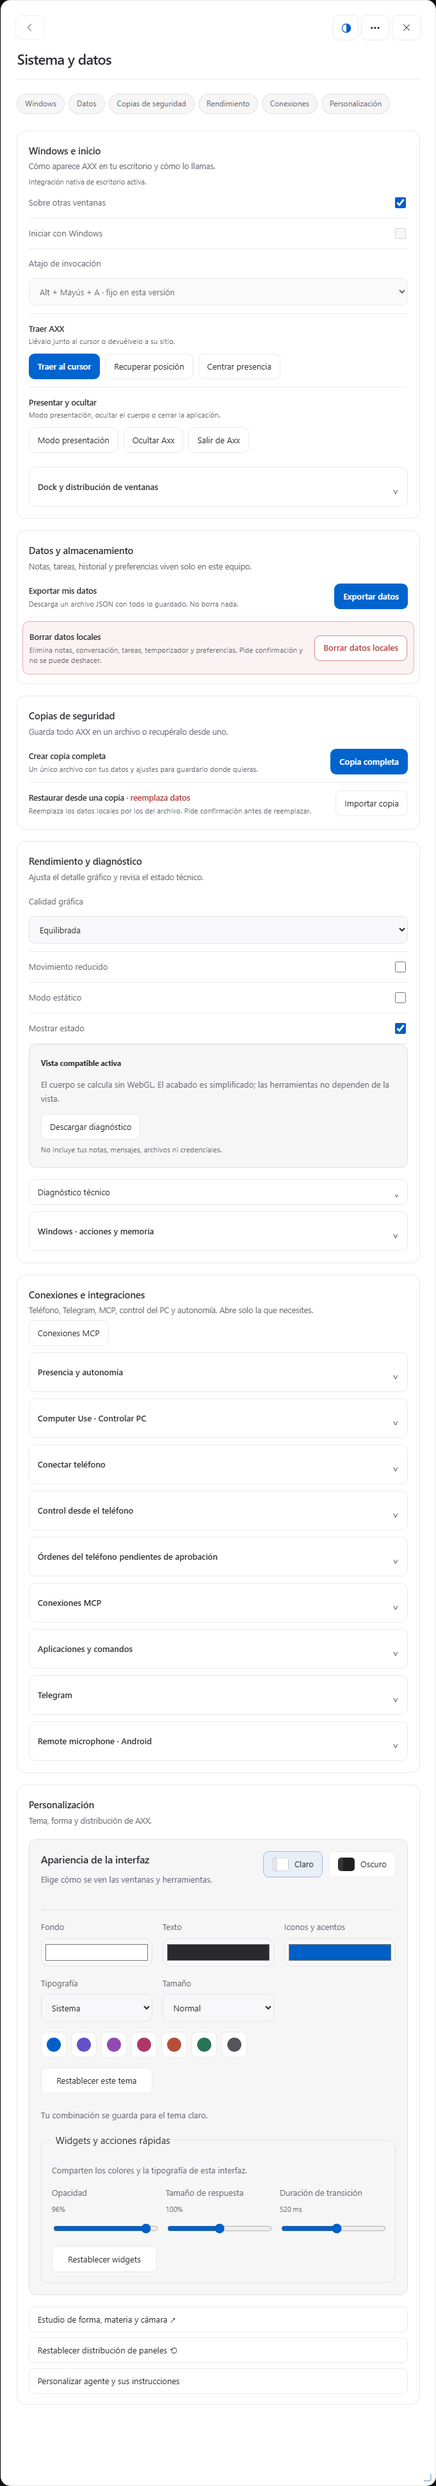
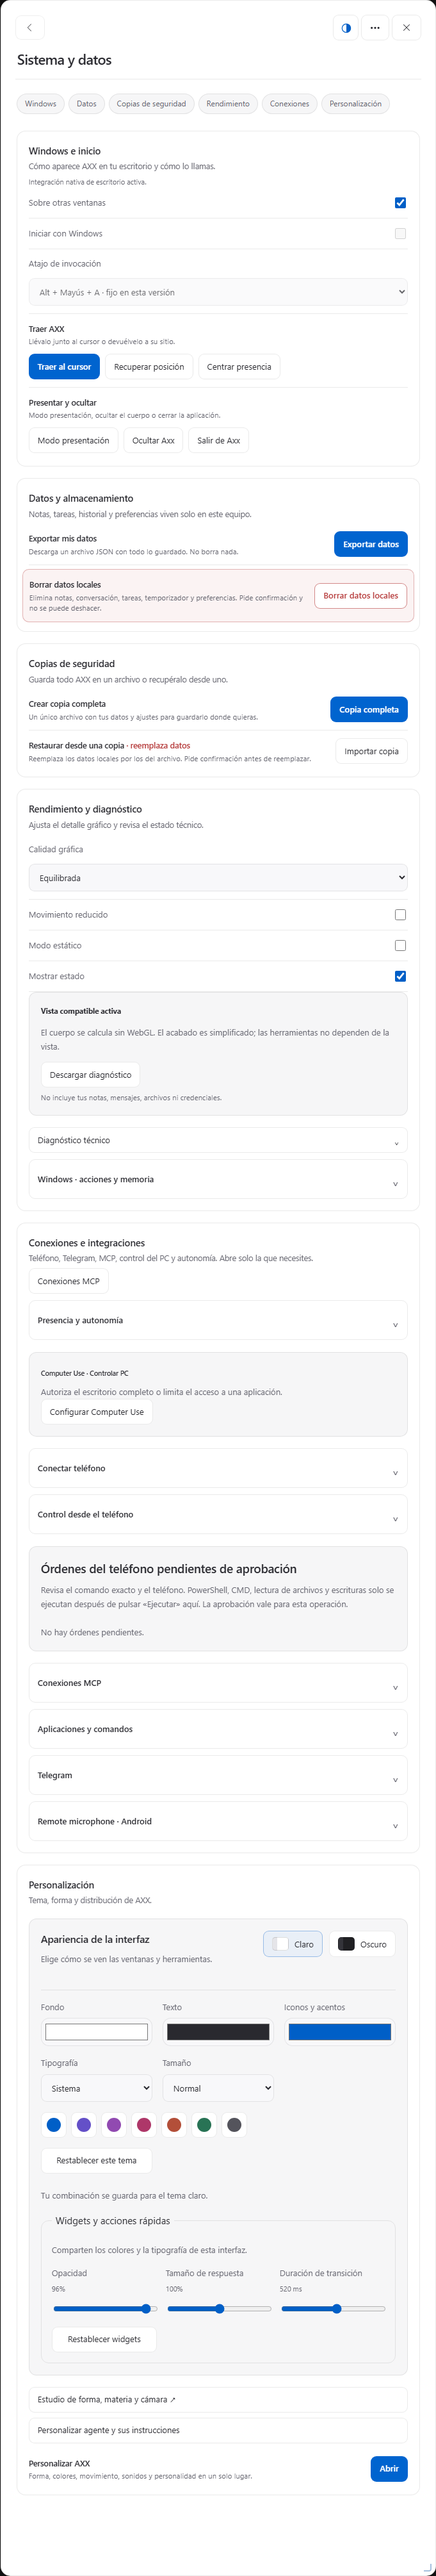
feat(ui): single Personalizar AXX entry with five tabs over the existing owners
No control or setting is duplicated: tabs show the owner views; the theme card and motion toggles are one node shown in whichever entry is open.

diff --git a/1.AXX/scripts/phase7-ui.js b/1.AXX/scripts/phase7-ui.js
@@ -23,6 +23,7 @@
   /** Collapsed home for a card owned by another module. Opens itself whenever that module scrolls to its card. */
   function fold(target, card, fallback) {
     if (!card || card.closest('.p7-fold')) return;
+    if (card.querySelectorAll('button,input,select,textarea').length < 2) return void target.append(card); // a one-button shortcut is already minimal
     const d = make('details', 'p7-fold'), title = card.querySelector(':scope>strong,:scope>h3,:scope>legend,:scope>div>strong')?.textContent || card.textContent.trim() || fallback;
     d.append(make('summary', '', title.trim().slice(0, 60))); d.ontoggle = relayout; target.append(d); d.append(card);
     card.scrollIntoView = function (options) { d.open = true; const g = d.closest('details.p7-more'); if (g) g.open = true; return Element.prototype.scrollIntoView.call(this, options); };
@@ -155,11 +156,61 @@
     Axx.backendRequest('GET', '/axx-api/providers').then(r => { saved = r.providers || []; aiRender(); }).catch(() => {});
   }
 
+  /* ── Personalizar AXX ────────────────────────────────────────────────────────────── */
+  // One entry, five tabs. Each tab shows the controls where their owner keeps them; nothing is duplicated.
+  const TABS = [['shape', 'Forma', 'Forma y materiales', 'appearance'], ['interface', 'Interfaz', 'Interfaz y colores', 'personalize'],
+    ['motion', 'Movimiento', 'Movimiento y presencia', 'personalize'], ['sound', 'Sonidos', 'Sonidos y respuesta', 'sound'], ['agent', 'Personalidad', 'Personalidad e instrucciones del agente', 'agent']];
+  const P = make('section', 'panel-view'); P.id = 'view-personalize'; P.hidden = true; $('panel').append(P);
+  const tabs = make('nav', 'p7-tabs'); tabs.setAttribute('role', 'tablist'); tabs.setAttribute('aria-label', 'Personalizar AXX');
+  let tab = 'interface', personalBuilt = false; const loans = [];
+  const go = key => { const t = TABS.find(t => t[0] === key); if (t[3] === 'personalize') tab = key; Axx.companion.openFeature(t[3]); tabs.querySelector('[aria-selected=true]')?.focus(); };
+  for (const [key, label, full] of TABS) { const b = make('button', '', label); b.type = 'button'; b.setAttribute('role', 'tab'); b.title = full; b.setAttribute('aria-label', full); b.dataset.p7Tab = key; b.onclick = () => go(key); tabs.append(b); }
+  tabs.onkeydown = event => { const step = { ArrowRight: 1, ArrowLeft: -1 }[event.key]; if (!step) return; event.preventDefault();
+    const i = TABS.findIndex(t => t[0] === tabs.querySelector('[aria-selected=true]')?.dataset.p7Tab); go(TABS[(i + step + TABS.length) % TABS.length][0]); };
+  const link = (label, run) => { const b = make('button', '', label); b.type = 'button'; b.onclick = run; return b; };
+  /** A control shown in two entries lives in whichever one is open; a placeholder keeps its place at home. */
+  const lend = (node, slot) => { if (!node) return; const home = document.createComment('p7-home'); node.before(home); loans.push({ node, home, slot }); };
+  function personal(view) {
+    if (!personalBuilt) {
+      const face = make('div'); face.dataset.p7Section = 'interface';
+      const theme = group(face, 'theme', 'Tema y colores', 'Claro u oscuro, colores, tipografía y widgets. Cada tema guarda su combinación.');
+      const layout = group(face, 'layout', 'Paneles y dock', 'Dónde aparecen el dock y las ventanas, y cómo recuperarlos.');
+      const dock = labelOf('dock-placement'), help = dock?.nextElementSibling?.matches('details') ? dock.nextElementSibling : null;
+      layout.body.append(...[dock, help].filter(Boolean));
+      row(layout.body, 'Recuperar posiciones', 'Devuelve el dock, las ventanas y las medidas de los paneles a su sitio.', [$('dock-position-reset'), $('reset-desktop-layout'), $('reset-layout')]);
+      const move = make('div'); move.dataset.p7Section = 'motion';
+      const motion = group(move, 'motion', 'Movimiento', 'Carácter y expresividad del cuerpo. No cambia la forma.');
+      if ($('id20-motion')) motion.body.append($('id20-motion'));
+      const calm = group(move, 'calm', 'Menos movimiento', 'Para concentrarte o aligerar el equipo.');
+      const presence = group(move, 'presence', 'Presencia', 'Cómo y cuándo se hace notar AXX.');
+      row(presence.body, 'Presencia y autonomía', 'Discreto, Copiloto o Full. Se ajusta junto a sus permisos.', [link('Abrir', () => { Axx.companion.openFeature('settings'); $('anticipation-settings')?.scrollIntoView({ block: 'start' }); })]);
+      row(presence.body, 'Laboratorio de animaciones', 'Muestras de cada estado. No ejecuta tareas.', [link('Abrir', () => Axx.companion.openFeature('lab'))]);
+      P.append(face, move);
+      lend($('axx-interface-theme'), theme.body); lend(labelOf('reduced-motion'), calm.body); lend(labelOf('static-mode'), calm.body);
+      const more = settingsGroups?.win.more; if (more && more.children.length < 2) more.remove();
+      if (settingsGroups) row(settingsGroups.personal.body, 'Personalizar AXX', 'Forma, colores, movimiento, sonidos y personalidad en un solo lugar.', [link('Abrir', () => go('interface'))]).querySelector('button').classList.add('p7-main');
+      personalBuilt = true;
+    }
+    const here = TABS.some(t => t[3] === view);
+    for (const { node, home, slot } of loans) if (view === 'personalize') slot.append(node); else if (home.parentNode && node.previousSibling !== home) home.after(node);
+    if (!here) return;
+    const key = view === 'personalize' ? tab : TABS.find(t => t[3] === view)[0];
+    $('view-' + view).prepend(tabs);
+    for (const b of tabs.children) { const on = b.dataset.p7Tab === key; b.setAttribute('aria-selected', String(on)); b.tabIndex = on ? 0 : -1; }
+    for (const s of P.querySelectorAll(':scope>[data-p7-section]')) s.hidden = s.dataset.p7Section !== key;
+    if ($('panel-title')) $('panel-title').textContent = 'Personalizar AXX';
+  }
+  if (!Axx.FEATURES.some(f => f.id === 'personalize')) Axx.FEATURES.push({ id: 'personalize', family: 'settings', title: 'Personalizar AXX', description: 'Forma, interfaz, movimiento, sonidos y personalidad del agente.', view: 'personalize', availability: 'DISPONIBLE · LOCAL' });
+
   /* ── Wiring ──────────────────────────────────────────────────────────────────────── */
   const arrange = { settings, ai };
+  const show = view => { try { arrange[view]?.(); personal(view); } catch (error) { console.error('phase7-ui', error); } };
   const openFeature = Axx.companion.openFeature.bind(Axx.companion);
-  Axx.companion.openFeature = function (id) { const result = openFeature(id); try { arrange[Axx.FEATURES.find(f => f.id === id)?.view]?.(); } catch (error) { console.error('phase7-ui', error); } return result; };
-  Axx.phase7 = { arrange };
-  const all = () => { for (const run of Object.values(arrange)) try { run(); } catch (error) { console.error('phase7-ui', error); } };
+  Axx.companion.openFeature = function (id) { const result = openFeature(id), view = Axx.FEATURES.find(f => f.id === id)?.view; if (view) show(view); return result; };
+  // Views are also opened by the catalog and by other modules; follow whichever one becomes visible.
+  new MutationObserver(list => { for (const m of list) if (m.target.classList.contains('panel-view') && !m.target.hidden) show(m.target.id.slice(5)); })
+    .observe($('panel'), { attributes: true, attributeFilter: ['hidden'], subtree: true });
+  const all = () => { for (const view of Object.keys(arrange)) show(view); show([...$('panel').querySelectorAll(':scope>.panel-view')].find(v => !v.hidden)?.id.slice(5)); };
+  Axx.phase7 = { arrange, personalize: go };
   all(); setTimeout(all, 1500); // modules that add their cards after startup
 })(window.Axx);

diff --git a/1.AXX/Axx.html b/1.AXX/Axx.html
@@ -12902,12 +12902,12 @@ var Axx;
         undo: '<path d="M3 10h12a6 6 0 0 1 0 12M3 10l6-6M3 10l6 6"/>', image: '<rect x="2" y="3" width="20" height="18" rx="3"/><circle cx="8" cy="9" r="2"/><path d="m2 17 5-4 5 4 4-5 6 5"/>'
     };
     function icon(name) { return '<svg viewBox="0 0 24 24" aria-hidden="true" fill="none" stroke="currentColor" stroke-width="1.65" stroke-linecap="round" stroke-linejoin="round">' + (ICONS[name] || ICONS.sparkle) + '</svg>'; }
-    const LABELS = { transfer: 'Archivos', computeruse: 'Computer Use · Controlar PC', converter: 'Convertidor', magicpen: 'Magic Pen', music: 'Música', screen: 'Grabar pantalla', layout11: 'Ajustar espacio', chat: 'Chat', dictation: 'Dictar', reader: 'Leer', voices: 'Voces de Axx', translation: 'Traducir', notes: 'Notas', timer: 'Temporizador', todos: 'Tareas', calculator: 'Calcular', stopwatch: 'Cronómetro', textstudio: 'Editar texto', images: 'Imágenes', reach: 'Archivos y apps', files: 'Huella de archivo', organic: 'Cuadernos', appearance: 'Apariencia', morphui: 'Modos y materia', studio: 'Girar en 3D', focus: 'Concentración', focusNow: 'Enfocar 25 min', transcript: 'Transcribir / vídeo', ai: 'Conectar IA', sound: 'Sonidos', settings: 'Datos y sistema', inbox: 'Actividad', help: 'Ayuda', roadmap: 'Próximamente', experience: 'Probar Axx', lab: 'Animaciones', audio: 'Audio reactivo', tour: 'Cómo se abre' };
+    const LABELS = { transfer: 'Archivos', computeruse: 'Computer Use · Controlar PC', converter: 'Convertidor', magicpen: 'Magic Pen', music: 'Música', screen: 'Grabar pantalla', layout11: 'Ajustar espacio', chat: 'Chat', dictation: 'Dictar', reader: 'Leer', voices: 'Voces de Axx', translation: 'Traducir', notes: 'Notas', timer: 'Temporizador', todos: 'Tareas', calculator: 'Calcular', stopwatch: 'Cronómetro', textstudio: 'Editar texto', images: 'Imágenes', reach: 'Archivos y apps', files: 'Huella de archivo', organic: 'Cuadernos', appearance: 'Apariencia', morphui: 'Modos y materia', studio: 'Girar en 3D', focus: 'Concentración', focusNow: 'Enfocar 25 min', transcript: 'Transcribir / vídeo', ai: 'Conectar IA', personalize: 'Personalizar AXX', sound: 'Sonidos', settings: 'Datos y sistema', inbox: 'Actividad', help: 'Ayuda', roadmap: 'Próximamente', experience: 'Probar Axx', lab: 'Animaciones', audio: 'Audio reactivo', tour: 'Cómo se abre' };
     const TOOL_ICONS = { transfer: 'file', computeruse: 'screen', converter: 'file', magicpen: 'pen', music: 'music', screen: 'screen', layout11: 'app', chat: 'chat', dictation: 'mic', reader: 'read', voices: 'read', translation: 'translate', notes: 'note', timer: 'timer', todos: 'task', calculator: 'calculator', stopwatch: 'timer', textstudio: 'edit', images: 'image', reach: 'file', files: 'hash', organic: 'book', ai: 'sparkle', sound: 'read', settings: 'settings', morphui: 'cube', transcript: 'waveform', appearance: 'palette', studio: 'rotate', focus: 'focus', focusNow: 'focus', inbox: 'activity', help: 'help', roadmap: 'route', experience: 'play', lab: 'lab', audio: 'waveform', tour: 'route' };
     const GROUPS = {
         create: { label: 'Crear', icon: 'note', ids: ['magicpen', 'converter', 'chat', 'dictation', 'screen', 'notes', 'organic', 'textstudio', 'images'] },
         work: { label: 'Productividad', icon: 'timer', ids: ['transfer','commands','applications','timer', 'todos', 'focus', 'calculator', 'stopwatch', 'reach', 'files'] },
-        assist: { label: 'Asistencia', icon: 'sparkle', ids: ['computeruse','agent','music', 'reader', 'voices', 'layout11', 'translation', 'transcript', 'ai', 'appearance', 'morphui', 'studio', 'sound', 'settings', 'audio', 'lab', 'inbox', 'help', 'roadmap', 'experience', 'tour'] }
+        assist: { label: 'Asistencia', icon: 'sparkle', ids: ['computeruse','personalize','music', 'reader', 'voices', 'layout11', 'translation', 'transcript', 'ai', 'morphui', 'studio', 'settings', 'audio', 'lab', 'inbox', 'help', 'roadmap', 'experience', 'tour'] }
     };
     /** Small presentation layer over the existing application and real tools. */
     class FlowExperience {

diff --git a/1.AXX/scripts/phase7-ui.css b/1.AXX/scripts/phase7-ui.css
@@ -56,3 +56,11 @@ body.native.axx-resident[data-ui-theme] #panel:not([data-view=chat]) #subpanel-a
 body.native.axx-resident[data-ui-theme] #panel:not([data-view=chat]) #subpanel-api .provider-overview{grid-template-columns:minmax(0,1fr);border:0;background:transparent;padding:0}
 body.native.axx-resident[data-ui-theme] #panel:not([data-view=chat]) #subpanel-api .provider-overview>.quick-row{justify-self:start;margin:0}
 body.native.axx-resident[data-ui-theme] #panel:not([data-view=chat]) #p7-ai-choose .ai-subpanel{margin-top:12px}
+
+/* ── Personalizar AXX ──────────────────────────────────────────────────────────────── */
+body.native.axx-resident[data-ui-theme] #panel:not([data-view=chat]) .p7-tabs{position:sticky;top:-20px;z-index:3;display:grid;grid-auto-flow:column;grid-auto-columns:minmax(0,1fr);margin:-6px 0 18px}
+body.native.axx-resident[data-ui-theme] #panel:not([data-view=chat]) .p7-tabs button:not([data-palette]){min-height:36px;padding:6px 4px!important;border:0!important;background:transparent!important;color:var(--secondary)!important;font-size:12.5px!important;white-space:nowrap;overflow:hidden;text-overflow:ellipsis}
+body.native.axx-resident[data-ui-theme] #panel:not([data-view=chat]) .p7-tabs button[aria-selected=true]:not([data-palette]){background:var(--surface)!important;color:var(--ink)!important;font-weight:600!important;box-shadow:0 1px 3px #0002!important}
+body.native.axx-resident[data-ui-theme] #panel:not([data-view=chat]) #view-personalize [data-p7-section][hidden]{display:none}
+body.native.axx-resident[data-ui-theme] #panel:not([data-view=chat]) #view-personalize #axx-interface-theme{border:0!important;background:transparent!important;padding:0!important;margin:0!important}
+body.native.axx-resident[data-ui-theme] #panel:not([data-view=chat]) #view-personalize #id20-motion :is(.id20-lead,.id20-section){border-color:var(--line)!important}

diff --git a/docs/phase-7/PERSONALIZATION-UNIFICATION.md b/docs/phase-7/PERSONALIZATION-UNIFICATION.md
@@ -1,0 +1,35 @@
+# Fase 7 · Personalizar AXX (Incremento 4)
+
+Capturas: `screenshots/after-personalize-*`, `after-appearance-*`, `after-sound-*`, `after-agent-*`.
+
+## Entrada única
+Nueva función `personalize` («Personalizar AXX») en el catálogo, en lugar de las tres tarjetas separadas «Apariencia», «Sonidos» y «Personalizar agente». Esas funciones siguen existiendo en `Axx.FEATURES`: el buscador del catálogo las encuentra y `openFeature('appearance' | 'sound' | 'agent')` funciona igual (comandos, menú del chat y suites lo usan).
+
+Una barra de cinco pestañas (`nav.p7-tabs`, `role=tablist`, flechas ←/→) acompaña a las cuatro vistas y el título del panel pasa a ser «Personalizar AXX».
+
+| Pestaña | Vista que se muestra | Propietario de los datos | Controles |
+|---|---|---|---|
+| Forma y materiales | `view-appearance` (sin modificar) | identidad/estudio en `Axx.html` | formas, paletas, tamaño, luz y superficie, estilos guardados, cámara, vista previa `appearance-apply` / `appearance-restore` |
+| Interfaz y colores | `view-personalize` | `interface-theme.js` (`axx.interface.theme`, `axx.interface.customization`); residente (`axx.resident.panel-pos`) | tema claro/oscuro, colores, tipografía, tamaño, widgets; `dock-placement`, `dock-position-reset`, `reset-desktop-layout`, `reset-layout` |
+| Movimiento y presencia | `view-personalize` | identidad (`id20-motion`), ajustes (`reduced-motion`, `static-mode`), `anticipation.js` | carácter y expresividad, reacciones; menos movimiento; accesos a «Presencia y autonomía» y al laboratorio |
+| Sonidos y respuesta | `view-sound` (sin modificar) | motor de sonido en `Axx.html` | perfil, volumen, categorías, muestras, mezcla |
+| Personalidad e instrucciones | `view-agent` (sin modificar) | `agent-profile.js` → `/axx-api/chat/profile` | nombre, rol, contexto, instrucciones, tono, comandos preferidos |
+
+## Sin copias de datos
+- No se crea ningún almacén, clave ni endpoint nuevo. No se clona ningún control.
+- **Movidos de forma permanente** a `view-personalize`: `#id20-motion` (sus estilos no dependen de la vista), el control del dock y los tres botones de recuperar posiciones.
+- **Compartidos** entre «Sistema y datos» y «Personalizar AXX»: `#axx-interface-theme`, `reduced-motion` y `static-mode`. Son un único nodo que se coloca en la vista que está abierta; un comentario `p7-home` guarda su sitio original. Motivo: `scripts/test-installed-appearance.cjs` (aceptación nativa) abre `settings` y usa ahí el tema; ese contrato se conserva.
+- «Sistema y datos» termina con el grupo «Personalización»: tema + botón «Personalizar AXX» + los accesos antiguos al estudio y al agente.
+
+## Cambios en `Axx.html` (script inline, dos líneas)
+- `GROUPS.assist.ids`: `'agent'` → `'personalize'`; se retiran `'appearance'` y `'sound'` de la lista (no del registro de funciones).
+- `LABELS`: se añade `personalize: 'Personalizar AXX'`.
+
+La función se registra en `Axx.FEATURES` desde `phase7-ui.js`.
+
+## Limitaciones conocidas
+- `view-appearance` usa el panel ancho (680×720) y `view-sound`/`view-agent` el estrecho (540×620), como antes; al cambiar de pestaña el panel cambia de tamaño. No se tocó para preservar los tamaños de panel guardados.
+- Dentro de «Forma y materiales» la lista interna de la vista no se reordenó.
+
+## Pruebas
+`phase7-ui-harness.cjs test`: cinco pestañas con los controles de su propietario visibles, flechas, nodo único del tema en ambas entradas, persistencia de tema/tipografía/tamaño de widget a través de `interface-theme.js`.
